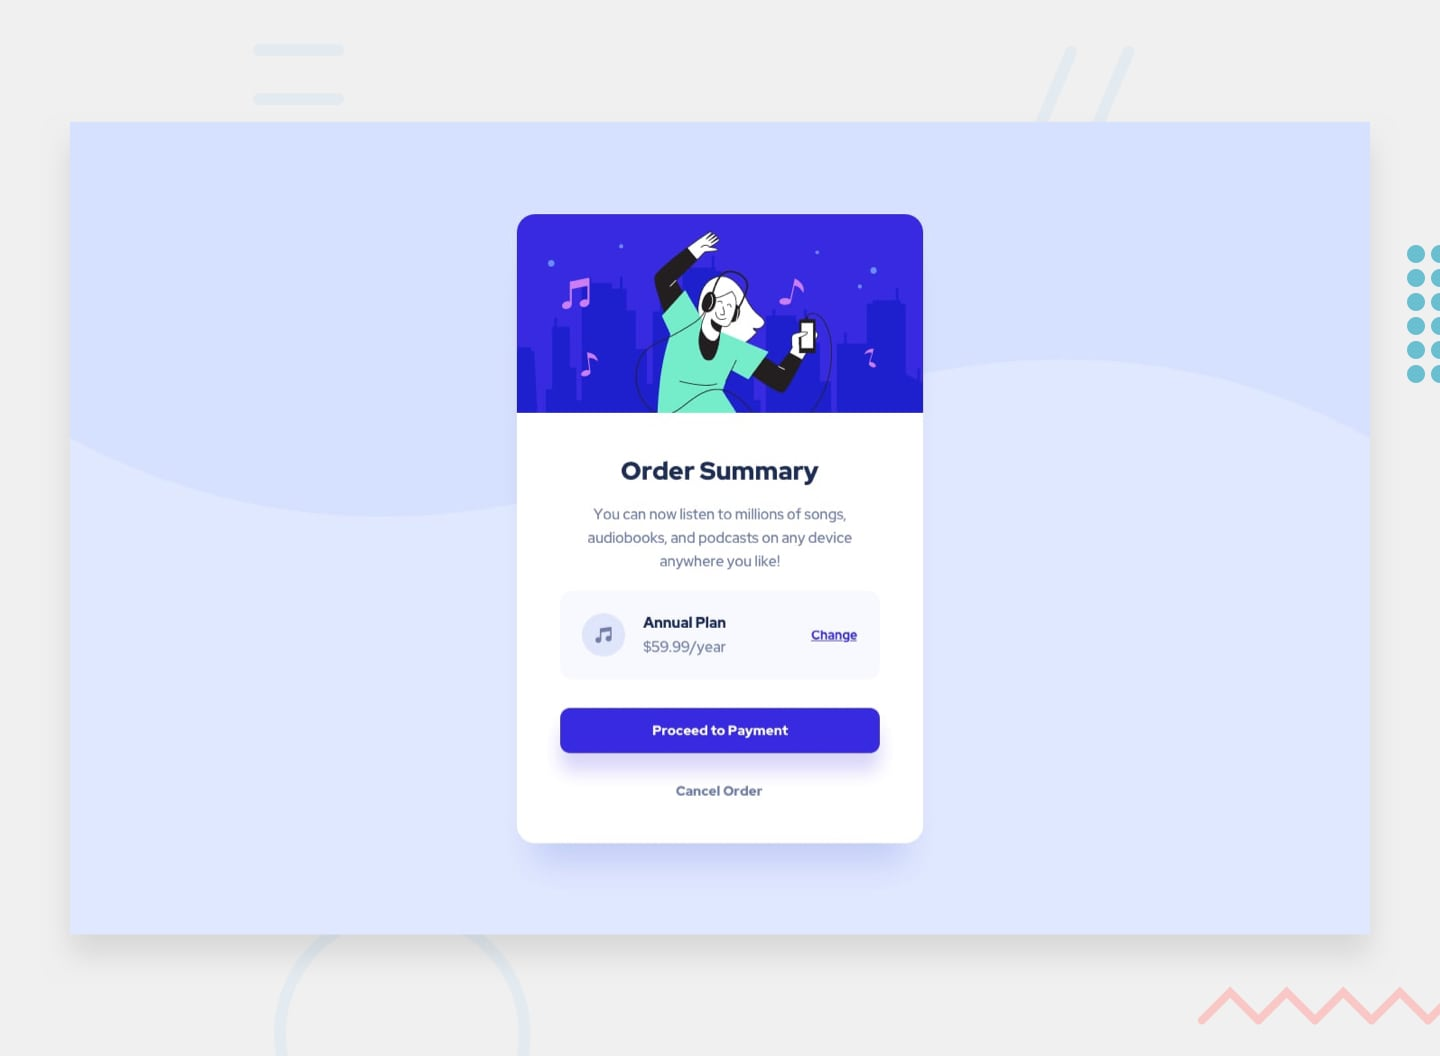
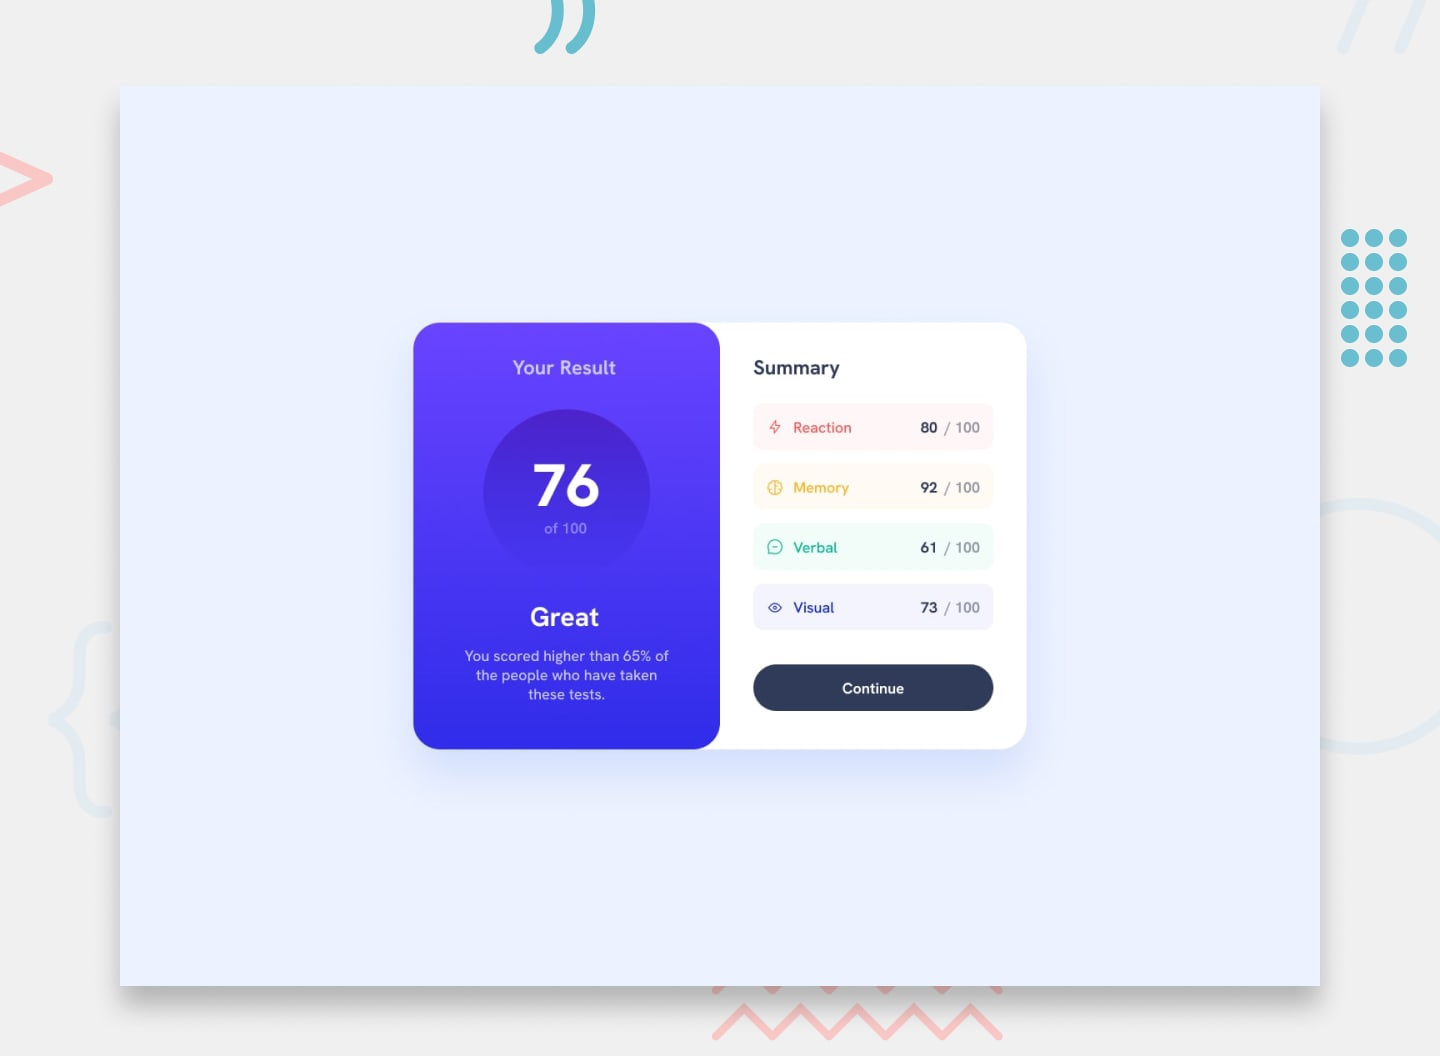
Add files via upload

diff --git a/index.html b/index.html
@@ -9,10 +9,10 @@
       rel="icon"
       type="image/png"
       sizes="32x32"
-      href="./images/favicon-32x32.png"
+      href="./assets/images/favicon-32x32.png"
     />
 
-    <title>Frontend Mentor | Order summary card</title>
+    <title>Frontend Mentor | Results summary component</title>
 
     <!-- Feel free to remove these styles or customise in your own stylesheet 👍 -->
     <style>
@@ -20,106 +20,179 @@
         display: flex;
         justify-content: center;
         align-items: center;
-        align-content: space-around;
-        background: url("pattern-background-desktop.svg") no-repeat center top;
-        background-color: hsl(225, 100%, 94%);
-      }
-      .button {
-        background-color: hsl(245, 75%, 52%);
-        color: white;
-        width: 350px;
-        height: 50px;
-        border-radius: 10px;
-        margin-bottom: 0px;
-        box-shadow: 0px 15px 20px hsl(229, 70%, 88%);
+        background-color: hsl(221, 100%, 96%);
+        margin-top: 200px;
+        border-radius: 15px;
       }
       .container {
         display: flex;
+        flex-direction: row;
+        width: 750px;
+        height: 450px;
+        background-color: white;
+        border-radius: 15px;
+      }
+      .container1 {
+        display: flex;
         flex-direction: column;
+        background: linear-gradient(hsl(252, 100%, 67%), hsl(241, 81%, 54%));
         justify-content: center;
         align-items: center;
-        align-content: space-around;
-        background-color: white;
-        width: 450px;
-        margin-top: 40px;
-        border-top-left-radius: 10px;
-        border-top-right-radius: 10px;
-        overflow: hidden;
-        height: 650px;
-        min-height: 100vh;
-        border-radius: 10px;
-      }
-      .background {
+        width: 350px;
+        height: 450px;
         border-radius: 20px;
       }
-      .main {
+      .container2 {
         display: flex;
-        flex-direction: row;
+        flex-direction: column;
+        align-content: space-between;
+        justify-content: space-around;
+        width: 350px;
+        margin-left: 25px;
+      }
+      .reaction {
+        background-color: hsl(0, 100%, 93%);
+        border-radius: 10px;
+        padding: 20px;
+        display: flex;
+        align-items: center;
+        color: red;
+      }
+      .memory {
+        background-color: hwb(39 89% 0%);
+        border-radius: 10px;
+        padding: 20px;
+        display: flex;
+        align-items: center;
+        color: orange;
+      }
+      .verbal {
+        background-color: hsl(167, 66%, 93%);
+        border-radius: 10px;
+        padding: 20px;
+        display: flex;
+        align-items: center;
+        color: green;
+      }
+      .visual {
+        background-color: hsl(234, 74%, 90%);
+        border-radius: 10px;
+        padding: 20px;
+        display: flex;
         /*justify-content: center;*/
         align-items: center;
-        background-color: hsl(225, 100%, 98%);
-        width: 350px;
+        color: blue;
+      }
+      .button {
+        background-color: hsl(224, 30%, 27%);
+        border-radius: 25px;
+        color: white;
+        padding: 5px 30px;
+        height: 50px;
+        width: 250px;
+        margin-left: 50px;
+        /*border: none;*/
+        margin-bottom: 10px;
+        cursor: pointer;
+        transition: background 0, 3s;
+      }
+      .button:hover {
+        background-color: blue;
+      }
+      .circle {
+        border-radius: 50%;
+        background-color: hsla(256, 72%, 46%, 1);
+        width: 100px;
         height: 100px;
-        justify-content: space-evenly;
-        margin: 20px 0;
-        border-radius: 10px;
+        text-align: center;
+        padding: 30px;
+        background: linear-gradient(hsl(234, 59%, 43%), hsla(241, 80%, 47%, 0));
+        margin-top: 50px;
       }
-
-      .text {
-        font-size: 18px;
+      .result {
+        margin-top: 10px;
+        color: white;
+        display: flex;
+        align-items: start;
+        font-family: "Segoe UI", Tahoma, Geneva, Verdana, sans-serif;
+        color: rgb(196, 194, 194);
+      }
+      .great {
+        color: white;
+        font-family: Hanken Grotesk;
+        font-size: 25px;
+      }
+      .number {
+        margin-left: 170px;
+        color: black;
+      }
+      .number1 {
+        margin-left: 185px;
+        color: black;
+      }
+      .word {
+        margin-left: 10px;
+      }
+      h1 {
+        font-size: 60px;
+        color: white;
+        margin-top: 10px;
+        font-family: Hanken Grotesk;
+      }
+      .circle1 {
+        margin-top: -50px;
+        color: rgb(183, 172, 172);
+      }
+      .font {
+        color: rgb(196, 194, 194);
+      }
+      span {
         color: grey;
       }
-      .olx {
-        margin-bottom: 200px;
-        display: flex;
-        justify-content: center;
-        align-items: center;
-        flex-direction: column;
-      }
-
-      .grey {
-        color: grey;
-        font-family: sans-serif;
-        margin-bottom: 55px;
-        margin-top: 25px;
-        background-color: none;
-        font-size: medium;
-      }
-
-      .meow {
-        margin-bottom: 30px;
-        display: flex;
-        flex-direction: column;
-        justify-content: center;
-        align-items: center;
-        gap: -200px;
-        margin-top: -200px;
+      .summary {
+        font-family: "Segoe UI", Tahoma, Geneva, Verdana, sans-serif;
       }
     </style>
   </head>
   <body>
     <div class="container">
-      <div class="olx">
-        <img src="illustration-hero.svg" />
-        <h1>Order Summary</h1>
-        <p class="text">
-          You can now listen to millions of songs,<br />
-          audiobooks, and podcasts on any device <br />anywhere you like!
-        </p>
-        <div class="main">
-          <img src="icon-music.svg" />
-          <div class="cherry">
-            <strong>Annual Plan</strong>
-            <br />$59.99/year
-          </div>
-          <div>
-            <a href="#">Change</a>
-          </div>
+      <div class="container1">
+        <strong class="result">Your Result</strong>
+        <div class="circle">
+          <h1>76</h1>
+          <br />
+          <p class="circle1">of 100</p>
         </div>
+        <h3 class="great">Great</h3>
+        <p class="font">
+          You scored higher than 65% of<br />
+          the people who have taken<br />
+          these tests.
+        </p>
       </div>
-      <div class="meow">
-        <button class="button"><h3>Proceed to Payment</h3></button>
-        <button class="grey">Cancel Order</button>
+      <div class="container2">
+        <h3 class="summary">Summary</h3>
+        <div class="reaction">
+          <img src="icon-reaction.svg" />
+          <strong class="word">Reaction</strong>
+          <strong class="number">80</strong> <span>/ 100</span>
+        </div>
+        <div class="memory">
+          <img src="icon-memory.svg" />
+          <strong class="word">Memory</strong>
+          <strong class="number">92 </strong><span>/ 100</span>
+        </div>
+        <div class="verbal">
+          <img src="icon-verbal.svg" />
+          <strong class="word">Verbal </strong>
+          <strong class="number1">61</strong><span>/ 100</span>
+        </div>
+        <div class="visual">
+          <img src="icon-visual.svg" />
+          <strong class="word">Visual</strong>
+          <strong class="number1">72</strong><span>/ 100</span>
+        </div>
+        <button class="button">Continue</button>
       </div>
     </div>
   </body>

diff --git a/style-guide.md b/style-guide.md
@@ -13,24 +13,39 @@ The designs were created to the following widths:
 
 ### Primary
 
-- Blue 100: hsl(225, 100%, 94%)
-- Blue 700: hsl(245, 75%, 52%)
+- Light red: hsl(0, 100%, 67%)
+- Orangey yellow: hsl(39, 100%, 56%)
+- Green teal: hsl(166, 100%, 37%)
+- Cobalt blue: hsl(234, 85%, 45%)
+
+## Gradients
+
+- Light slate blue (background): hsl(252, 100%, 67%)
+- Light royal blue (background): hsl(241, 81%, 54%)
+
+- Violet blue (circle): hsla(256, 72%, 46%, 1)
+- Persian blue (circle): hsla(241, 72%, 46%, 0)
 
 ### Neutral
 
-- Blue 50: hsl(225, 100%, 98%)
-- Gray 600: hsl(224, 23%, 55%)
-- Blue 950: hsl(223, 47%, 23%)
+- White: hsl(0, 0%, 100%)
+- Pale blue: hsl(221, 100%, 96%)
+- Light lavender: hsl(241, 100%, 89%)
+- Dark gray blue: hsl(224, 30%, 27%)
+
+### Notes
+
+Use transparency to get the color variations necessary to match the design. Hint: look into using `hsla()`.
 
 ## Typography
 
 ### Body Copy
 
-- Font size (paragraph): 16px
+- Font size (paragraphs): 18px
 
 ### Font
 
-- Family: [Red Hat Display](https://fonts.google.com/specimen/Red+Hat+Display)
-- Weights: 500, 700, 900
+- Family: [Hanken Grotesk](https://fonts.google.com/specimen/Hanken+Grotesk)
+- Weights: 500, 700, 800
 
 > 💎 [Upgrade to Pro](https://www.frontendmentor.io/pro?ref=style-guide) for design file access to see all design details and get hands-on experience using a professional workflow with tools like Figma.

diff --git a/README-template.md b/README-template.md
@@ -1,6 +1,6 @@
-# Frontend Mentor - Order summary card solution
+# Frontend Mentor - Results summary component solution
 
-This is a solution to the [Order summary card challenge on Frontend Mentor](https://www.frontendmentor.io/challenges/order-summary-component-QlPmajDUj). Frontend Mentor challenges help you improve your coding skills by building realistic projects. 
+This is a solution to the [Results summary component challenge on Frontend Mentor](https://www.frontendmentor.io/challenges/results-summary-component-CE_K6s0maV). Frontend Mentor challenges help you improve your coding skills by building realistic projects. 
 
 ## Table of contents
 
@@ -24,7 +24,9 @@ This is a solution to the [Order summary card challenge on Frontend Mentor](http
 
 Users should be able to:
 
-- See hover states for interactive elements
+- View the optimal layout for the interface depending on their device's screen size
+- See hover and focus states for all interactive elements on the page
+- **Bonus**: Use the local JSON data to dynamically populate the content
 
 ### Screenshot
 
